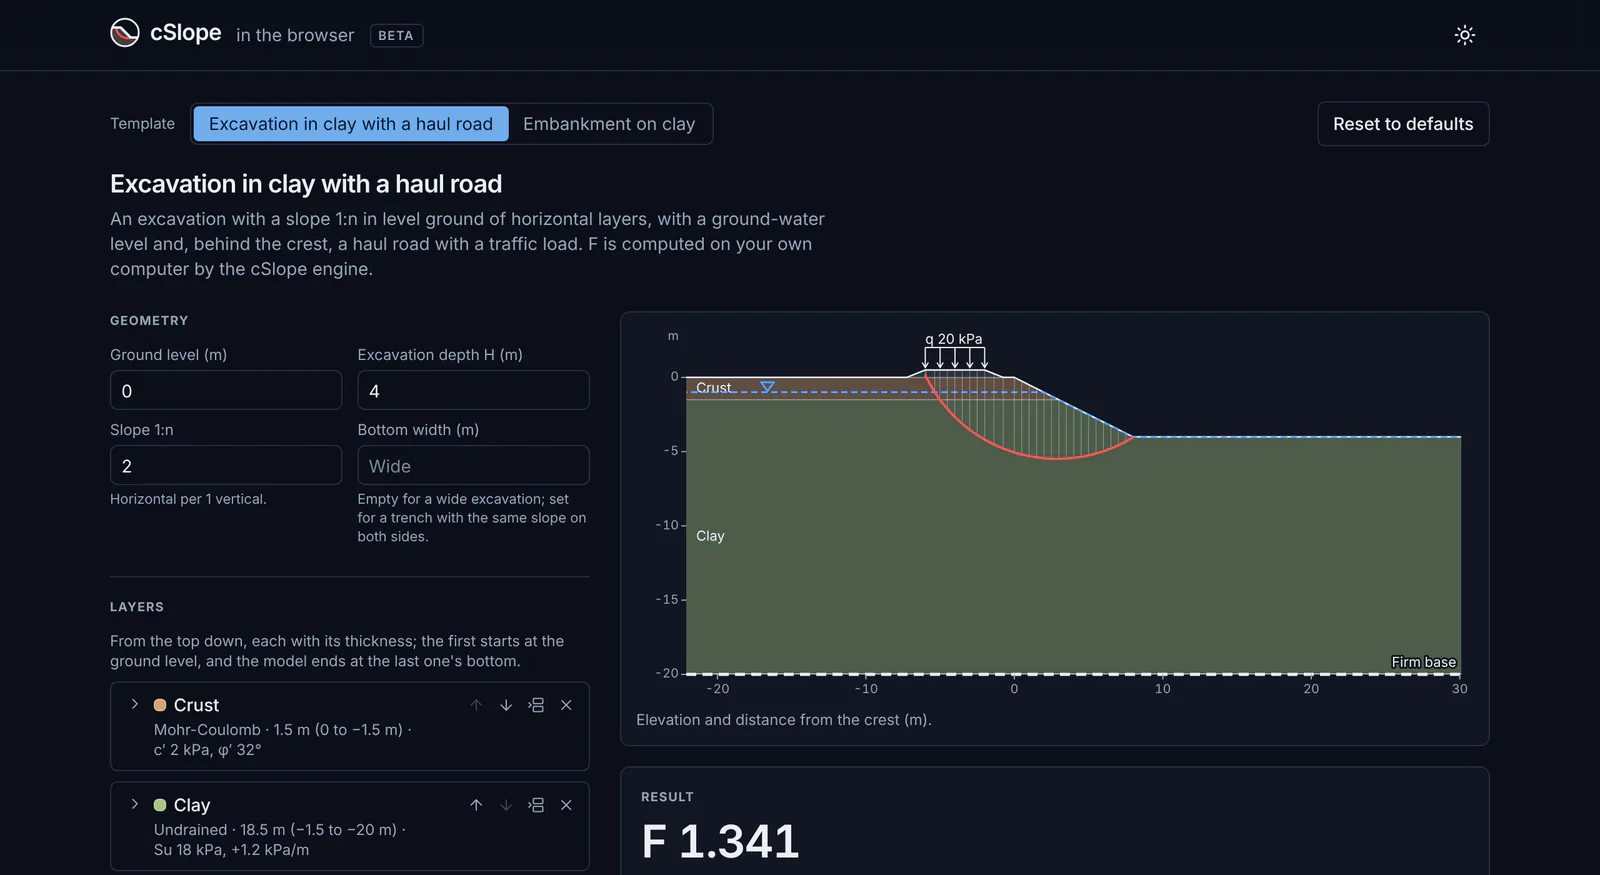
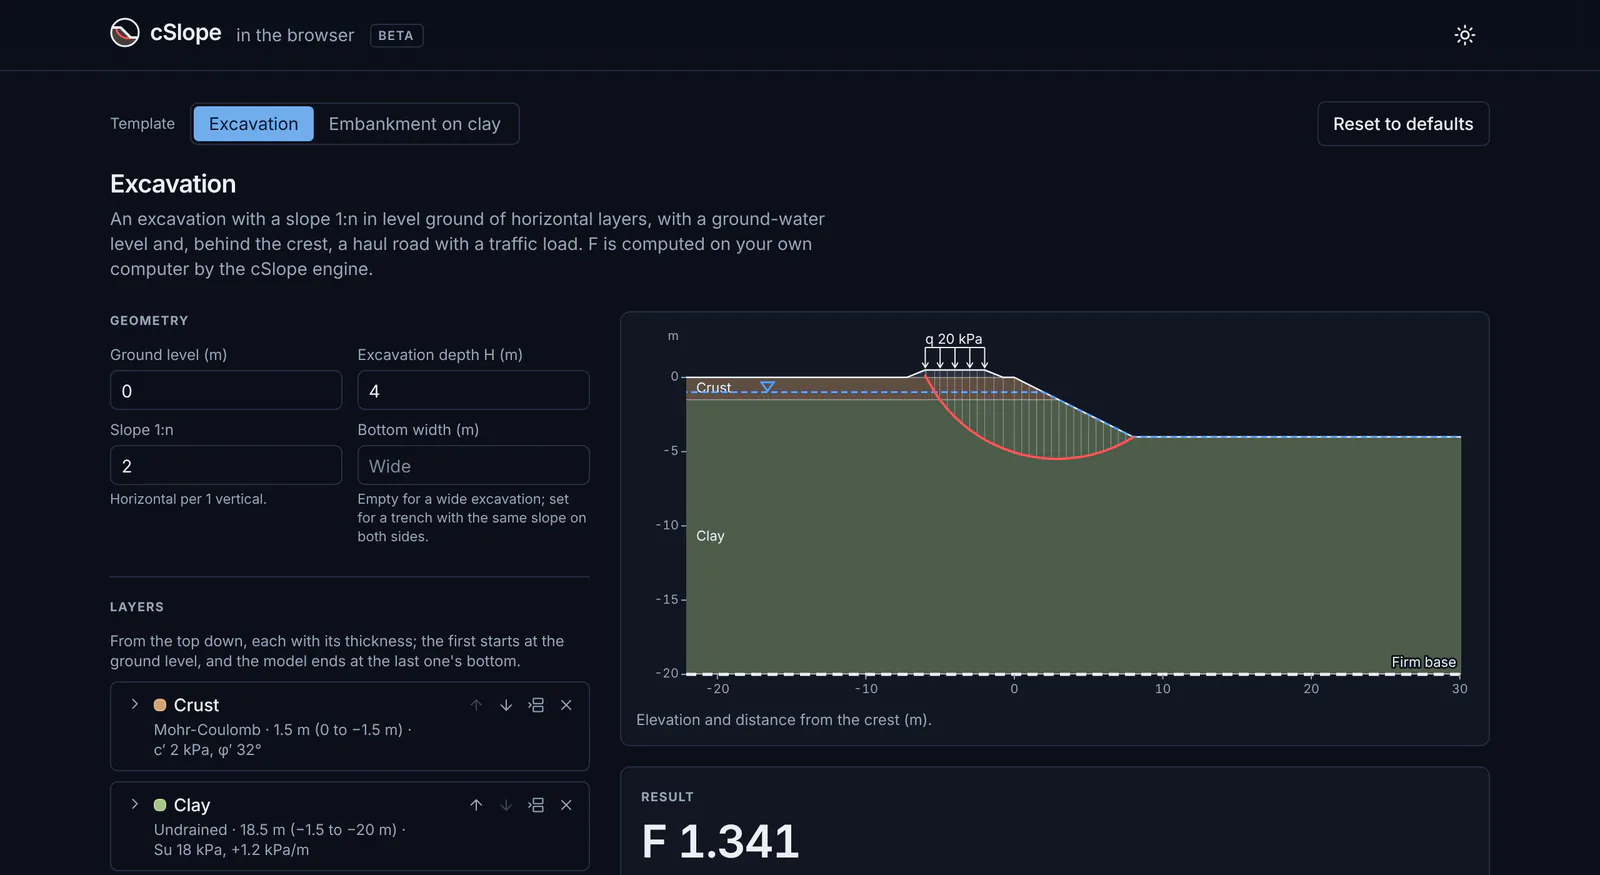
Browser version: the excavation template is called "Excavation" and opens with new values (#169)
The template's name is "Excavation" in the picker, the heading, the page title, the downloaded project and the docs. Its defaults are a trench 3 m deep at 1:1 with a 2 m bottom through a crust, a clay with Su increasing with depth and 5.5 m of sand (down to 3H), water 1 m down and a haul road 1 m behind the crest with 20 kPa traffic; F 1.240. Links with layers keep their meaning; only the bare address opens the new values.

Claude-Session: https://claude.ai/code/session_01BL3SnYT7y9qgZYwTFmy79Q

Changed region(s): [[0.1562, 0.1234, 0.4375, 0.216]]

diff --git a/packages/web/src/App.test.tsx b/packages/web/src/App.test.tsx
@@ -105,12 +105,14 @@ beforeEach(() => {
 describe("App", () => {
   it("opens the excavation's defaults complete and computes F at once, the haul road on", async () => {
     const { requests } = renderApp();
-    expect(screen.getByRole("heading", { level: 1, name: "Excavation in clay with a haul road" })).toBeInTheDocument();
+    expect(screen.getByRole("heading", { level: 1, name: "Excavation" })).toBeInTheDocument();
     expect(screen.getByRole("checkbox", { name: "Haul road behind the crest" })).toBeChecked();
-    expect(screen.getByRole("button", { name: /^Dry crust/ })).toHaveTextContent("Undrained · 1 m (0 to −1 m) · Su 30 kPa");
-    expect(screen.getByRole("button", { name: /^Sand and gravel/ })).toHaveTextContent("Mohr-Coulomb · 5 m (−4 to −9 m) · c′ 0 kPa, φ′ 35°");
-    expect(field("Excavation depth H (m)").value).toBe("2.5");
-    expect(field("Slope 1:n").value).toBe("2");
+    expect(screen.getByRole("button", { name: /^Crust/ })).toHaveTextContent("Mohr-Coulomb · 1.5 m (0 to −1.5 m) · c′ 15 kPa, φ′ 0°");
+    expect(screen.getByRole("button", { name: /^Clay/ })).toHaveTextContent("Undrained · 2 m (−1.5 to −3.5 m) · Su 18 kPa, +1.2 kPa/m");
+    expect(screen.getByRole("button", { name: /^Sand/ })).toHaveTextContent("Mohr-Coulomb · 5.5 m (−3.5 to −9 m) · c′ 0 kPa, φ′ 38°");
+    expect(field("Excavation depth H (m)").value).toBe("3");
+    expect(field("Slope 1:n").value).toBe("1");
+    expect(field("Bottom width (m)").value).toBe("2");
     // No field is empty: it runs by itself, with the defaults' document.
     await waitFor(() => expect(requests).toHaveLength(1));
     expect(requests[0].document).toEqual(excavationDocument(EXCAVATION_DEFAULTS));
@@ -124,15 +126,15 @@ describe("App", () => {
     fireEvent.change(field("Excavation depth H (m)"), { target: { value: "3.5" } });
     expect(field("Excavation depth H (m)").value).toBe("3.5");
     fireEvent.click(screen.getByRole("button", { name: "Reset to defaults" }));
-    expect(field("Excavation depth H (m)").value).toBe("2.5");
+    expect(field("Excavation depth H (m)").value).toBe("3");
     expect(screen.getByRole("checkbox", { name: "Haul road behind the crest" })).toBeChecked();
-    expect(screen.getByRole("button", { name: /^Dry crust/ })).toHaveTextContent("Undrained · 1 m (0 to −1 m) · Su 30 kPa");
+    expect(screen.getByRole("button", { name: /^Crust/ })).toHaveTextContent("Mohr-Coulomb · 1.5 m (0 to −1.5 m) · c′ 15 kPa, φ′ 0°");
   });
 
   it("asks for the empty strengths of a plain section without running", async () => {
     plain();
     const { requests } = renderApp();
-    expect(screen.getByRole("heading", { level: 1, name: "Excavation in clay with a haul road" })).toBeInTheDocument();
+    expect(screen.getByRole("heading", { level: 1, name: "Excavation" })).toBeInTheDocument();
     await flush();
     expect(screen.getByRole("status")).toHaveTextContent("To get F, fill in 2 empty fields.");
     expect(field("Su (kPa)").value).toBe("");
@@ -235,7 +237,7 @@ describe("App", () => {
   it("undoes a removed layer: back in its place with its values and its color, the focus on its header", async () => {
     const { requests } = renderApp();
     await waitFor(() => expect(requests).toHaveLength(1));
-    const names = () => screen.getAllByRole("button", { name: /^(Dry crust|Clay|Sand and gravel)/ }).map((b) => /^(Dry crust|Clay|Sand and gravel)/.exec(b.textContent ?? "")?.[0]);
+    const names = () => screen.getAllByRole("button", { name: /^(Crust|Clay|Sand)/ }).map((b) => /^(Crust|Clay|Sand)/.exec(b.textContent ?? "")?.[0]);
     // The clay, open, gets its own color and strength.
     fireEvent.click(screen.getByRole("button", { name: /^Clay/ }));
     fireEvent.click(screen.getByRole("button", { name: "Color" }));
@@ -244,15 +246,15 @@ describe("App", () => {
     await waitFor(() => expect(new URLSearchParams(window.location.search).get("layer2.su")).toBe("17"));
     const address = window.location.search;
     fireEvent.click(screen.getByRole("button", { name: "Remove Clay" }));
-    expect(names()).toEqual(["Dry crust", "Sand and gravel"]);
+    expect(names()).toEqual(["Crust", "Sand"]);
     // The message names the layer, with Undo, in the card's live region.
     const live = within(card()).getByText("Removed Clay.").closest("[aria-live]")!;
     expect(live).toHaveAttribute("aria-live", "polite");
     expect(live).toHaveTextContent("Removed Clay. Undo");
     fireEvent.click(within(card()).getByRole("button", { name: "Undo" }));
-    expect(names()).toEqual(["Dry crust", "Clay", "Sand and gravel"]);
+    expect(names()).toEqual(["Crust", "Clay", "Sand"]);
     const clay = screen.getByRole("button", { name: /^Clay/ });
-    expect(clay).toHaveTextContent("Undrained · 3 m (−1 to −4 m) · Su 17 kPa");
+    expect(clay).toHaveTextContent("Undrained · 2 m (−1.5 to −3.5 m) · Su 17 kPa, +1.2 kPa/m");
     expect(clay).toHaveAttribute("aria-expanded", "true");
     expect(screen.getByRole("button", { name: "Color" })).toHaveTextContent("Sienna");
     expect(document.activeElement).toBe(clay);
@@ -280,7 +282,7 @@ describe("App", () => {
     fireEvent.click(screen.getByRole("checkbox", { name: "Haul road behind the crest" }));
     fireEvent.click(screen.getByRole("button", { name: "+ Add layer" }));
     fireEvent.click(screen.getByRole("button", { name: "Reset to defaults" }));
-    expect(field("Excavation depth H (m)").value).toBe("2.5");
+    expect(field("Excavation depth H (m)").value).toBe("3");
     expect(screen.queryByRole("button", { name: /^Layer 4/ })).toBeNull();
     expect(within(card()).getByText("Reset to the template's defaults.").closest("[aria-live]")).toHaveTextContent("Reset to the template's defaults. Undo");
     fireEvent.click(within(card()).getByRole("button", { name: "Undo" }));
@@ -337,7 +339,7 @@ describe("App", () => {
     fireEvent.click(thumb);
     const sheet = screen.getByRole("dialog", { name: "Section" });
     expect(thumb).toHaveAttribute("aria-expanded", "true");
-    expect(within(sheet).getByRole("img")).toHaveAccessibleName(/^Section of the excavation: .*, and the critical surface of F 1\.234\.$/);
+    expect(within(sheet).getByRole("img")).toHaveAccessibleName(/^Section of the excavation, a trench 2 m wide at the bottom: .*, and the critical surface of F 1\.234\.$/);
     expect(within(sheet).getByText("F 1.234")).toBeInTheDocument();
     // The focus is on Close and stays in the sheet; Escape closes it and gives the focus back to the picture.
     const close = within(sheet).getByRole("button", { name: "Close" });
@@ -595,7 +597,7 @@ describe("App", () => {
     fireEvent.click(button);
     await waitFor(() => expect(files).toHaveLength(1));
     // The document that ran, its result, and the template's title as the model's name.
-    expect(writeProject).toHaveBeenCalledWith(requests[0].document, { criticalSlices: [] }, "Excavation in clay with a haul road");
+    expect(writeProject).toHaveBeenCalledWith(requests[0].document, { criticalSlices: [] }, "Excavation");
     expect(files[0].name).toBe("cslope-excavation.cslp");
     expect(files[0].blob.type).toBe("application/zip");
     expect(new Uint8Array(await files[0].blob.arrayBuffer())).toEqual(new Uint8Array([0x50, 0x4b, 3, 4]));
@@ -609,7 +611,7 @@ describe("App", () => {
     await waitFor(() => expect(requests).toHaveLength(1));
     fireEvent.click(screen.getByRole("button", { name: "Download .cslp" }));
     await waitFor(() => expect(files).toHaveLength(1));
-    expect(writeProject).toHaveBeenCalledWith(requests[0].document, null, "Excavation in clay with a haul road");
+    expect(writeProject).toHaveBeenCalledWith(requests[0].document, null, "Excavation");
     expect(await screen.findByText("Downloaded without a result: F is not computed yet.")).toBeInTheDocument();
   });
 
@@ -619,7 +621,7 @@ describe("App", () => {
     const { requests, writeProject } = renderApp({ answer: (r) => (answer ? complete(r) : null) });
     expect(await within(card()).findByText("F 1.234")).toBeInTheDocument();
     answer = false;
-    type("Excavation depth H (m)", "3");
+    type("Excavation depth H (m)", "3.5");
     fireEvent.click(screen.getByRole("button", { name: "Download .cslp" }));
     await waitFor(() => expect(writeProject).toHaveBeenCalledOnce());
     const [doc, result] = vi.mocked(writeProject).mock.calls[0];
@@ -653,11 +655,11 @@ describe("App", () => {
     plain();
     const { requests } = renderApp();
     const picker = screen.getByRole("group", { name: "Template" });
-    const excavation = within(picker).getByRole("button", { name: "Excavation in clay with a haul road" });
+    const excavation = within(picker).getByRole("button", { name: "Excavation" });
     const embankment = within(picker).getByRole("button", { name: "Embankment on clay" });
     expect(excavation).toHaveAttribute("aria-pressed", "true");
     expect(embankment).toHaveAttribute("aria-pressed", "false");
-    expect(document.title).toBe("Excavation in clay with a haul road — cSlope");
+    expect(document.title).toBe("Excavation — cSlope");
     type("Excavation depth H (m)", "4");
     fireEvent.click(embankment);
     expect(screen.getByRole("heading", { level: 1, name: "Embankment on clay" })).toBeInTheDocument();
@@ -683,7 +685,7 @@ describe("App", () => {
     expect(await within(card()).findByText("F 1.234")).toBeInTheDocument();
     expect(screen.getByRole("img", { name: /^Section of the embankment: 1 layer, a load of 10 kPa on the crest, and the critical surface of F 1.234\.$/ })).toBeInTheDocument();
     // Back to the excavation as it was left.
-    fireEvent.click(within(picker).getByRole("button", { name: "Excavation in clay with a haul road" }));
+    fireEvent.click(within(picker).getByRole("button", { name: "Excavation" }));
     expect(field("Excavation depth H (m)").value).toBe("4");
   });
 

diff --git a/packages/web/src/form/draft.test.ts b/packages/web/src/form/draft.test.ts
@@ -24,9 +24,9 @@ describe("the form's state", () => {
     const first = initialDraft();
     expect(first.on).toEqual(["road"]);
     expect(first.layers.map((l) => [l.name, l.kind, l.thickness])).toEqual([
-      ["Dry crust", "undrained", "1"],
-      ["Clay", "undrained", "3"],
-      ["Sand and gravel", "mohr-coulomb", "5"],
+      ["Crust", "mohr-coulomb", "1.5"],
+      ["Clay", "undrained", "2"],
+      ["Sand", "mohr-coulomb", "5.5"],
     ]);
     const f = formState(first);
     expect(f.missing).toEqual([]);
@@ -221,6 +221,49 @@ describe("the form's state", () => {
     d.layers[1].thickness = "18.5";
     d.fields.groundLevel = "2000";
     expect([...formState(d).errors.keys()]).toEqual(["groundLevel"]);
+  });
+
+  it("opens the bare excavation link at the defaults, the same section as the defaults' full link", () => {
+    const full =
+      "t=excavation&ground=0&H=3&slope=1&bottomWidth=2&water=-1&layers=3" +
+      "&layer1.name=Crust&layer1.kind=mohr-coulomb&layer1.t=1.5&layer1.gamma=18&layer1.c=15&layer1.phi=0" +
+      "&layer2.name=Clay&layer2.kind=undrained&layer2.t=2&layer2.gamma=16.5&layer2.su=18&layer2.suRate=1.2" +
+      "&layer3.name=Sand&layer3.kind=mohr-coulomb&layer3.t=5.5&layer3.gamma=20&layer3.c=0&layer3.phi=38" +
+      "&road=on&road.distanceFromCrest=1&road.width=4&road.height=0.3&road.gamma=20&road.c=0&road.phi=38&road.trafficLoad=20";
+    expect(toQuery(fromQuery("?t=excavation"))).toBe(full);
+    expect(formState(fromQuery("?" + full)).params).toEqual(EXCAVATION_DEFAULTS);
+    expect(formState(fromQuery("?t=excavation")).params).toEqual(EXCAVATION_DEFAULTS);
+  });
+
+  it("keeps the meaning of links shared before the defaults changed: a link with layers says every field", () => {
+    // The page's address at the earlier defaults: the same section today.
+    const before =
+      "?t=excavation&ground=0&H=2.5&slope=2&layers=3" +
+      "&layer1.name=Dry+crust&layer1.kind=undrained&layer1.t=1&layer1.gamma=17&layer1.su=30" +
+      "&layer2.name=Clay&layer2.kind=undrained&layer2.t=3&layer2.gamma=17&layer2.su=15" +
+      "&layer3.name=Sand+and+gravel&layer3.kind=mohr-coulomb&layer3.t=5&layer3.gamma=22&layer3.c=0&layer3.phi=35" +
+      "&road=on&road.distanceFromCrest=1&road.width=4&road.height=0.3&road.gamma=18&road.c=0&road.phi=39&road.trafficLoad=15";
+    const earlier: ExcavationParams = {
+      groundLevel: 0,
+      excavationDepth: 2.5,
+      slope: 2,
+      bottomWidth: null,
+      layers: [
+        { name: "Dry crust", bottomLevel: -1, material: { kind: "undrained", gamma: 17, su: 30 } },
+        { name: "Clay", bottomLevel: -4, material: { kind: "undrained", gamma: 17, su: 15 } },
+        { name: "Sand and gravel", bottomLevel: -9, material: { kind: "drained", gamma: 22, c: 0, phi: 35 } },
+      ],
+      waterLevel: null,
+      road: { distanceFromCrest: 1, width: 4, height: 0.3, fill: { gamma: 18, c: 0, phi: 39 }, trafficLoad: 15 },
+    };
+    expect("?" + toQuery(draftOf("excavation", earlier))).toBe(before);
+    expect(formState(fromQuery(before)).params).toEqual(earlier);
+    // A link with a few fields: the others stay empty (none is taken from the defaults), the road off.
+    const few = fromQuery("?t=excavation&H=4&layers=1&layer1.kind=undrained&layer1.t=10&layer1.su=20");
+    expect(few.fields).toEqual({ groundLevel: "", excavationDepth: "4", slope: "", bottomWidth: "", waterLevel: "" });
+    expect(few.on).toEqual([]);
+    expect(few.layers.map((l) => [l.thickness, l.gamma, l.su, l.suRate])).toEqual([["10", "", "20", ""]]);
+    expect(formState(few).missing).toEqual(["groundLevel", "slope", "layers.0.gamma"]);
   });
 
   it("opens an unknown template as the excavation", () => {

diff --git a/packages/web/scripts/smoke.ts b/packages/web/scripts/smoke.ts
@@ -223,8 +223,8 @@ async function checkPage(page: Page, base: string): Promise<string[]> {
         return el && el.textContent !== b && !el.closest(".opacity-50");
       }, before, { timeout: 30_000 });
       console.log(`  embankment, crust moved below the clay: ${before} → ${await fValue(page).textContent()}`);
-      await page.getByRole("button", { name: "Excavation in clay with a haul road" }).click();
-      await page.getByRole("heading", { level: 1, name: "Excavation in clay with a haul road" }).waitFor({ timeout: 5_000 });
+      await page.getByRole("button", { name: "Excavation", exact: true }).click();
+      await page.getByRole("heading", { level: 1, name: "Excavation", exact: true }).waitFor({ timeout: 5_000 });
       await page.waitForFunction(() => new URLSearchParams(location.search).get("t") === "excavation", null, { timeout: 5_000 });
     } catch (e) {
       problems.push(`the embankment: "${await page.getByRole("status").first().textContent()}" (${e instanceof Error ? e.message.split("\n")[0] : String(e)})`);
@@ -364,7 +364,7 @@ async function checkProjectDownload(browser: Browser, base: string): Promise<str
     if (opened.status !== 0) problems.push(`the app's reader could not open it: ${out}`);
     const want = `F = ${EXPECTED["clay-5m-ponded"].fos.toFixed(3)}`;
     if (!out.includes(want) || !out.includes("input unchanged")) problems.push(`the app's reader says:\n${out}\n(expected "${want}" and "input unchanged")`);
-    if (!/model model-1 \(active\): "Excavation in clay with a haul road", \d+ ground points, 2 material\(s\)/.test(out)) problems.push(`the model is not the section: ${out}`);
+    if (!/model model-1 \(active\): "Excavation", \d+ ground points, 2 material\(s\)/.test(out)) problems.push(`the model is not the section: ${out}`);
     console.log(`  ${out.split("\n").filter((l) => /result:|model /.test(l)).map((l) => l.trim()).join("; ")}`);
   } catch (e) {
     problems.push(`the download: ${e instanceof Error ? e.message.split("\n")[0] : String(e)}`);

diff --git a/packages/web/src/templates/excavation-examples.ts b/packages/web/src/templates/excavation-examples.ts
@@ -9,23 +9,24 @@ import type { ExcavationParams } from "./excavation";
 
 /**
  * The first visit of the excavation: a complete section, so that the page
- * computes F at once. Typical values: a 2.5 m cut at 1:2 through a dry
- * crust and a soft clay into sand and gravel, which reaches below 3H
- * (no shallow-base note), and a low haul road with traffic 1 m
- * behind the crest; dry.
+ * computes F at once. A trench 3 m deep, 2 m wide at the bottom, with
+ * sides 1:1, through a crust (Mohr-Coulomb, c′ 15 kPa, φ′ 0) and a clay
+ * with Su growing with depth into sand, which reaches 3H below the
+ * ground (no shallow-base note); the water 1 m down, and a low haul road
+ * with traffic 1 m behind the crest.
  */
 export const EXCAVATION_DEFAULTS: ExcavationParams = {
   groundLevel: 0,
-  excavationDepth: 2.5,
-  slope: 2,
-  bottomWidth: null,
+  excavationDepth: 3,
+  slope: 1,
+  bottomWidth: 2,
   layers: [
-    { name: "Dry crust", bottomLevel: -1, material: { kind: "undrained", gamma: 17, su: 30 } },
-    { name: "Clay", bottomLevel: -4, material: { kind: "undrained", gamma: 17, su: 15 } },
-    { name: "Sand and gravel", bottomLevel: -9, material: { kind: "drained", gamma: 22, c: 0, phi: 35 } },
+    { name: "Crust", bottomLevel: -1.5, material: { kind: "drained", gamma: 18, c: 15, phi: 0 } },
+    { name: "Clay", bottomLevel: -3.5, material: { kind: "undrained-increasing", gamma: 16.5, su: 18, suRate: 1.2 } },
+    { name: "Sand", bottomLevel: -9, material: { kind: "drained", gamma: 20, c: 0, phi: 38 } },
   ],
-  waterLevel: null,
-  road: { distanceFromCrest: 1, width: 4, height: 0.3, fill: { gamma: 18, c: 0, phi: 39 }, trafficLoad: 15 },
+  waterLevel: -1,
+  road: { distanceFromCrest: 1, width: 4, height: 0.3, fill: { gamma: 20, c: 0, phi: 38 }, trafficLoad: 20 },
 };
 
 export const EXCAVATION_EXAMPLES: Record<string, ExcavationParams> = {

diff --git a/packages/desktop/src/features/project/web-project.test.ts b/packages/desktop/src/features/project/web-project.test.ts
@@ -46,7 +46,7 @@ function pageRun(doc: WebDocument) {
 /** The page's download (packages/web, src/engine/project.ts). */
 function download(doc: WebDocument, result: ReturnType<typeof pageRun> | null) {
   return projectFromDefinition(doc.definition, result, {
-    name: "Excavation in clay with a haul road",
+    name: "Excavation",
     options: doc.options,
     date: "2026-11-07",
     modified: "2026-11-07T12:00:00.000Z",
@@ -75,7 +75,7 @@ describe("a project downloaded from the browser page", () => {
       expect(read.file.models).toHaveLength(1);
       const [model] = read.file.models;
       expect(read.file.activeModelId).toBe(model.id);
-      expect(model.name).toBe("Excavation in clay with a haul road");
+      expect(model.name).toBe("Excavation");
       expect(model.coordinates).toEqual(doc.definition.coordinates);
       expect(model.materials.map((m) => [m.name, m.color])).toEqual(coloured.definition.materials.map((m) => [m.name, m.color]));
       expect(model.options.tensionCrackAuto).toBe(doc.options.tensionCrackAuto);

diff --git a/packages/website/src/pages/Home.tsx b/packages/website/src/pages/Home.tsx
@@ -118,7 +118,7 @@ function WebApp() {
           <p className="text-sm font-semibold text-primary">In the browser</p>
           <h2 className="mt-2 text-2xl font-semibold tracking-tight sm:text-3xl">Two templates to try without installing</h2>
           <p className="mt-3 leading-relaxed text-muted-foreground text-pretty">
-            An excavation in clay with a haul road, and an embankment on clay. Fill in the form and the cSlope engine
+            An excavation with a haul road, and an embankment on clay. Fill in the form and the cSlope engine
             computes F on your own computer.
           </p>
           <Button asChild size="lg" className="mt-6">

diff --git a/packages/web/src/form/specs.ts b/packages/web/src/form/specs.ts
@@ -106,7 +106,7 @@ export const excavationSpec: FormSpec<ExcavationParams> = {
         label: "Haul road behind the crest",
         title: "A fill on the ground behind the crest, with its own material and an optional traffic load.",
         // The first visit's road (EXCAVATION_DEFAULTS).
-        initial: { "road.distanceFromCrest": "1", "road.width": "4", "road.height": "0.3", "road.gamma": "18", "road.c": "0", "road.phi": "39", "road.trafficLoad": "15" },
+        initial: { "road.distanceFromCrest": "1", "road.width": "4", "road.height": "0.3", "road.gamma": "20", "road.c": "0", "road.phi": "38", "road.trafficLoad": "20" },
       },
     },
   ],

diff --git a/packages/website/src/pages/Download.tsx b/packages/website/src/pages/Download.tsx
@@ -73,7 +73,7 @@ export function Download() {
                 <h2 className="font-medium">In the browser</h2>
               </div>
               <p className="mt-2 text-sm text-muted-foreground">
-                Two templates, an excavation in clay with a haul road and an embankment on clay, analyzed on
+                Two templates, an excavation with a haul road and an embankment on clay, analyzed on
                 your own computer without installing anything.
               </p>
               <a

diff --git a/packages/web/src/templates/excavation.ts b/packages/web/src/templates/excavation.ts
@@ -373,7 +373,7 @@ export function excavationDocument(params: ExcavationParams): AnalysisDocument {
 
 export const excavationTemplate: Template<ExcavationParams> = {
   id: "excavation",
-  title: "Excavation in clay with a haul road",
+  title: "Excavation",
   description:
     "An excavation with a slope 1:n in level ground of horizontal layers, with a ground-water level and, behind the crest, a haul road with a traffic load.",
   params: EXCAVATION_PARAMETERS,

diff --git a/CHANGELOG.md b/CHANGELOG.md
@@ -162,6 +162,7 @@ The first public release.
 - In the browser: while the layers cannot be built (a thickness empty or wrong, a removed layer leaving the rest invalid), the drawing shows only the section's outline, greyed, with "Fix the layers to draw the section." instead of the last layers; "Open in cSlope" is "Get the cSlope app"; the phone's result bar says "Minimum factor of safety" as the card does; an undrained Su must be more than 0; after a layer is moved to the top or the bottom the focus goes to its other move button; the γ fields say to enter the saturated unit weight below the water level.
 - In the browser: a removed layer or a reset to the defaults can be undone from the message that reports it (on a phone, a notice above the result bar); the drawing shows the model's whole depth with its firm base dashed; on a phone the result bar has a thumbnail of the section that opens the drawing full screen.
 - In the browser, **Download .cslp** saves the section as a cSlope project, which the app opens with the model (its layers in their colors, the template's options) and the page's result, current; the app's own run gives the same F. A result that is not yet the section's (the analysis running, a change before its run) is left out, and the page says so. The engine's project writer is a WebAssembly module of its own (about 2.1 MB, 0.4 MB compressed), loaded only when a project is downloaded, so the engine stays within its 4 MB budget.
+- In the browser, the excavation template is called **Excavation**, also in the downloaded project. It opens with new typical values: a trench 3 m deep at 1:1, 2 m wide at the bottom, through a crust (Mohr-Coulomb, c′ 15 kPa, φ′ 0°) over a clay with Su increasing with depth over sand, the water 1 m below the ground, and a haul road with a traffic load of 20 kPa 1 m behind the crest (F 1.240). A link with the layers in it opens the same section as before; only a link without them (app.cslope.com, ?t=excavation) opens the new values.
 
 ### Python
 
